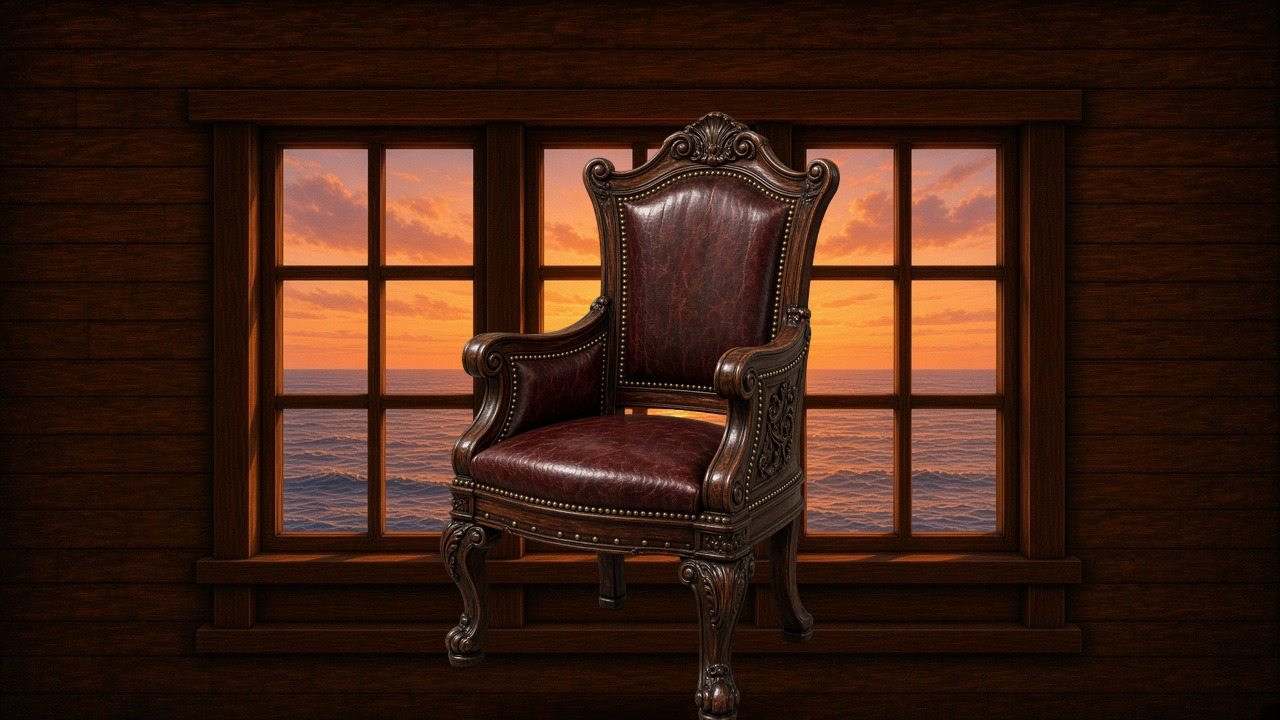
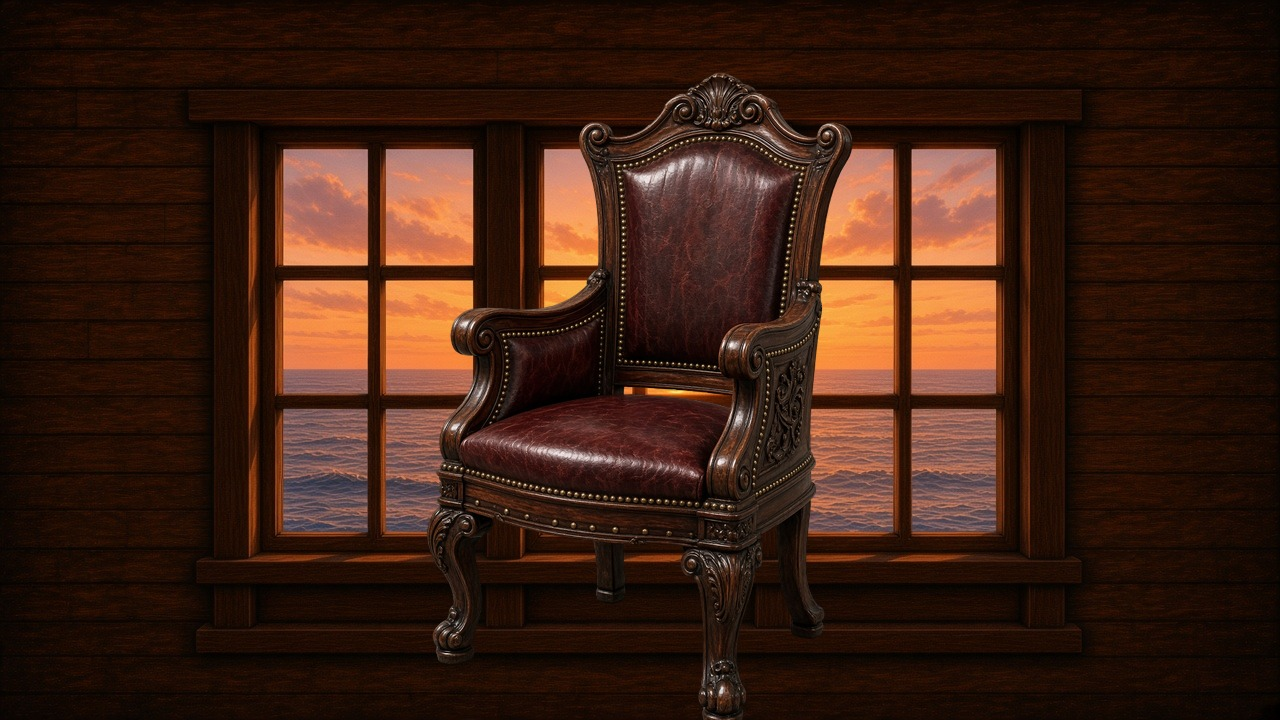
Drop chair feet flush to the stern floor seam
Remove the under-foot shadow band and align visible wood
feet to the bottom edge of the stern wall.

Changed region(s): [[0.3125, 0.0917, 0.6875, 0.9167], [0.5312, 0.8861, 0.5938, 1.0]]

diff --git a/pirates-cabin.html b/pirates-cabin.html
@@ -30,7 +30,7 @@
         <div class="cabin-world" id="cabin-world">
           <div class="cabin-face cabin-face-stern">
             <img
-              src="images/cabin-stern-wall-v5.jpg?v=2"
+              src="images/cabin-stern-wall-v5.jpg?v=3"
               alt="Stern wall with three sunrise ocean windows and captain’s chair"
               draggable="false"
             />
